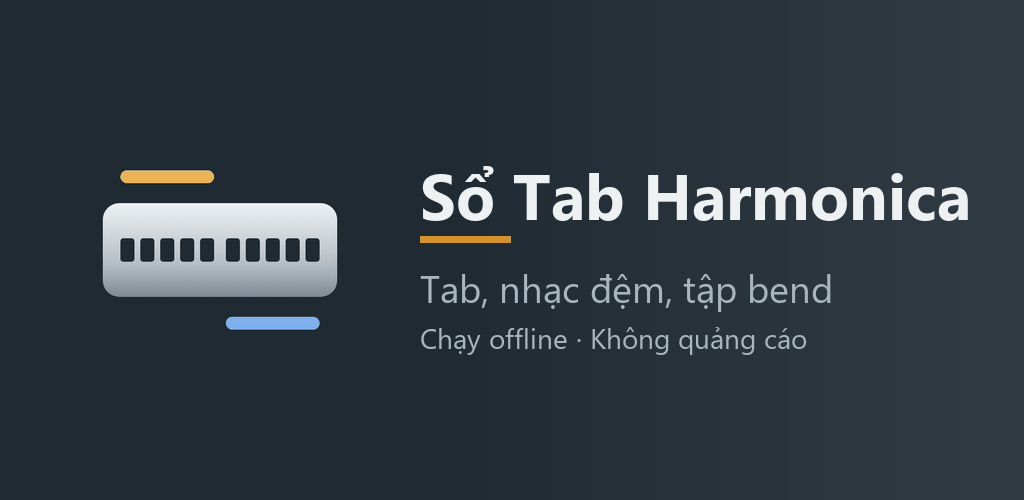
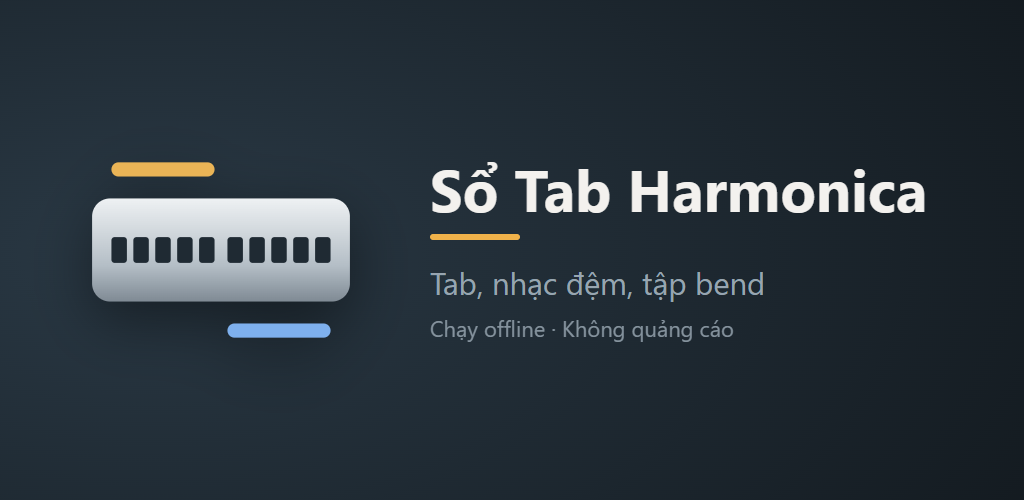
Ảnh bìa Google Play cho Harmonica vẽ lại cùng kiểu với 6 app kia: nền thép, gạch chân vàng đồng thau

Changed region(s): [[0.4062, 0.0, 1.0, 1.0], [0.0625, 0.3, 0.3438, 0.69], [0.4062, 0.54, 0.8125, 0.72]]

diff --git a/store/README.md b/store/README.md
@@ -77,4 +77,4 @@ Micro, bản thu, bài hát, nhật ký luyện tập **không** rời máy nên
 
 ## Làm lại ảnh
 
-Ảnh chụp và ảnh bìa được tạo tự động: ảnh chụp bằng Chrome headless (giả lập máy 360×640 @3x) mở máy chủ chạy thử của từng app (`.claude/launch.json`), ảnh bìa vẽ từ biểu tượng app trên nền màu riêng của từng app (Harmonica giữ ảnh bìa cũ). Khi giao diện đổi nhiều, nhờ Claude chụp lại.
+Ảnh chụp và ảnh bìa được tạo tự động: ảnh chụp bằng Chrome headless (giả lập máy 360×640 @3x) mở máy chủ chạy thử của từng app (`.claude/launch.json`), ảnh bìa vẽ từ biểu tượng app trên nền màu riêng của từng app. Khi giao diện đổi nhiều, nhờ Claude chụp lại.
